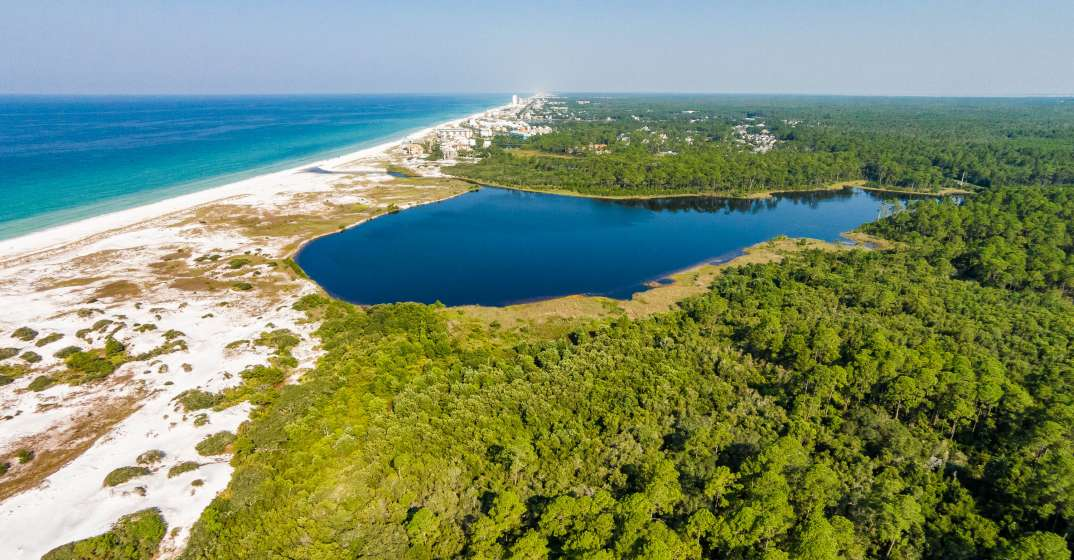
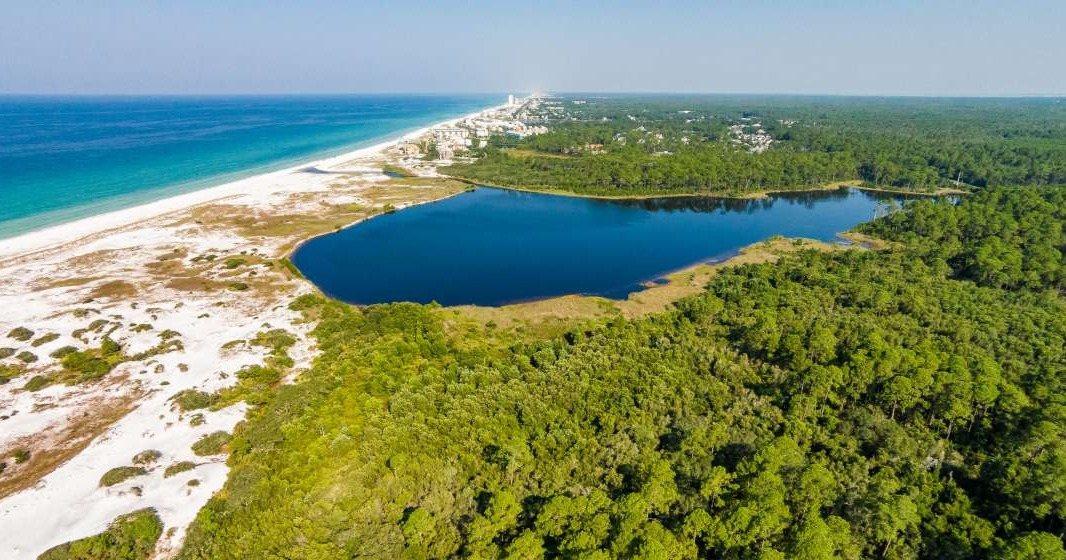
media: area shots for event posts, an event image slot, and photo credits
An event post about the Destin Seafood Festival was illustrated with a photo
of a cottage kitchen, because event briefs fell back to the unit pool. Event
and local-guide posts now prefer a new media.local pool of area shots, and
events can carry their own rights-cleared image via event_media, matched on
the event title, with an optional credit appended to the caption.

images/aerial-30a.jpg was cropped from 1.918:1 to 1.904:1 so it clears
Instagram's 1.91 limit — it is the owner's own photo and was previously
unusable on IG.

docs record where images may legitimately come from: the rest of the property
photoshoot, the owner's own photos (noting SEASIDE bars commercial
photography in its commercial district without a permit), event organisers,
Visit South Walton's library subject to confirming partner rights, guest
photos with written permission, and licensed stock. Not other people's social
posts.

diff --git a/src/sunmoon_social/content_engine.py b/src/sunmoon_social/content_engine.py
@@ -60,6 +60,10 @@ def _rate_line(brand: dict, unit_key: str) -> str:
     return " ".join(parts)
 
 
+def _has_pool(brand: dict, name: str) -> bool:
+    return bool((brand.get("media", {}) or {}).get(name))
+
+
 def _unit_meta(brand: dict, key: str) -> dict:
     for u in brand.get("brand", {}).get("units", []):
         if u.get("key") == key:
@@ -84,6 +88,29 @@ def _load_recent() -> list[str]:
 def _save_recent(recent: list[str]) -> None:
     STATE_DIR.mkdir(parents=True, exist_ok=True)
     (STATE_DIR / RECENT_PHOTOS).write_text(json.dumps(recent[:RECENT_KEEP], indent=2))
+
+
+def _event_media(brand: dict, ev: PropertyEvent | None) -> dict | None:
+    """A rights-cleared image for this specific event, if one is configured.
+
+    Matched on a substring of the event title. Entries live under `event_media`
+    in brand.yaml, which documents what may legitimately go there.
+    """
+    if not ev:
+        return None
+    entries = brand.get("event_media") or []
+    if isinstance(entries, dict):        # `event_media: {}` when none configured
+        return None
+    title = (ev.title or "").lower()
+    base = (brand.get("media", {}) or {}).get("base_url", "").rstrip("/")
+    for e in entries:
+        m = str(e.get("match", "")).lower()
+        if m and m in title:
+            return {"media_url": f"{base}/{e['file'].lstrip('/')}",
+                    "alt_text": e.get("alt", ""),
+                    "photo_shows": e.get("shows", ""),
+                    "photo_credit": e.get("credit") or None}
+    return None
 
 
 def _media(brand: dict, pool: str, seed: int, used: set | None = None,
@@ -188,7 +215,9 @@ def _event_brief(brand: dict, ev: PropertyEvent, seed: int, window: OpenWindow |
         "unit_label": _unit_meta(brand, window.unit)["label"] if window else None,
         "open_dates": _fmt_window(window) if window else None,
         "window": window.to_dict() if window else None,
-        **_media(brand, window.unit if window else "events", seed, used, recent),
+        **(_event_media(brand, ev)
+           or _media(brand, "local" if _has_pool(brand, "local") else (window.unit if window else "events"),
+                     seed, used, recent)),
         "copy": {"instagram": ig, "facebook": fb},
         "hashtags": _hashtags(brand, seed=seed),
     }
@@ -205,7 +234,7 @@ def _evergreen_brief(brand: dict, pillar: dict, seed: int, used: set | None = No
         "id": f"evergreen-{pillar['key']}-{seed}",
         "pillar": pillar["key"],
         "prompt": prompts.get(pillar["key"], pillar.get("description", "")),
-        **_media(brand, "events", seed, used, recent),
+        **_media(brand, "local" if _has_pool(brand, "local") else "events", seed, used, recent),
         "copy": {"instagram": prompts.get(pillar["key"], ""), "facebook": prompts.get(pillar["key"], "")},
         "hashtags": _hashtags(brand, seed=seed),
         "needs_human_media": True,

diff --git a/src/sunmoon_social/publishers/base.py b/src/sunmoon_social/publishers/base.py
@@ -19,7 +19,12 @@ class Publisher:
         copy = post["copy"]
         if isinstance(copy, dict):  # a brief that was never fanned out per platform
             copy = copy.get("instagram") or copy.get("facebook") or ""
-        return f"{copy}\n\n{post.get('hashtags', '')}".strip()
+        credit = post.get("photo_credit")
+        parts = [copy]
+        if credit:
+            parts.append(f"Photo: {credit}")
+        parts.append(post.get("hashtags", ""))
+        return "\n\n".join(x for x in parts if x).strip()
 
     def publish(self, post: dict) -> dict:
         raise NotImplementedError

diff --git a/docs/social-engine.md b/docs/social-engine.md
@@ -184,6 +184,53 @@ Workers Builds will see a push and redeploy the (unchanged) site. Harmless,
 but to skip it: Cloudflare dashboard → the `sunandmoonhome` Worker → Settings
 → Builds → **Build watch paths** → exclude `state/*`, `queue/*`.
 
+## Images: what may be used, and where they come from
+
+Every image the engine posts must be one this business has the right to use
+commercially. Photos on other people's Instagram or Facebook are their
+copyright — reposting one to market paid stays is infringement, however it is
+credited, so the engine never sources images that way.
+
+Legitimate sources, best first:
+
+1. **The property photoshoot.** `photos/` holds a sample (001, 010, 020, 040…)
+   of what was clearly a much larger set. The rest of those originals are the
+   cheapest and most on-brand images available — drop them into the pools in
+   `config/brand.yaml`.
+2. **Your own photos of public places** — the beach, the dune lakes, the bike
+   path. One caveat: **SEASIDE® prohibits commercial photography inside its
+   commercial district** without a permit, which covers a shoot intended for
+   marketing. Request one at seasidefl.com/photography-requests, or shoot
+   outside the district.
+3. **Event organisers.** Most want partners promoting their event and will
+   share promotional images on request. Ask for written permission covering
+   social use, and record any required credit.
+4. **Visit South Walton** (visitsouthwalton.com/media-kit) keeps a photo and
+   video library of the destination, including events. The public page does not
+   state whether lodging partners may use it in their own marketing — ask
+   SouthWalton@TurnerPR.com before assuming, and keep the reply.
+5. **Guest photos, with written permission.** This is what the `guest_love`
+   pillar is for. A DM saying "yes, you can use it" is enough; keep it.
+6. **Licensed stock** (Unsplash and Pexels allow commercial use without
+   attribution). Two caveats: the licence covers the photographer's copyright
+   only — not trademarks, private property, or recognisable people in frame,
+   which matters for a place like Seaside — and a stock beach shot is weaker
+   brand material than a real photo of the cottages.
+
+### Wiring images in
+
+| Pool in `config/brand.yaml` | Used for |
+|---|---|
+| `media.sun` / `media.moon` / `media.full` | availability posts for that unit |
+| `media.local` | event and local-guide posts (area shots, not interiors) |
+| `media.events` | fallback when no local pool exists |
+| `event_media` | a specific event, matched on its title |
+
+`event_media` entries take an optional `credit`, appended to the caption as
+`Photo: <credit>` when the source requires attribution. Each entry also needs
+hand-written `alt` text describing the actual image — the copywriter never sees
+the photo and must not describe it.
+
 ## Adding a platform
 
 See `docs/api-activation-checklist.md`. Short version: create the app, add
